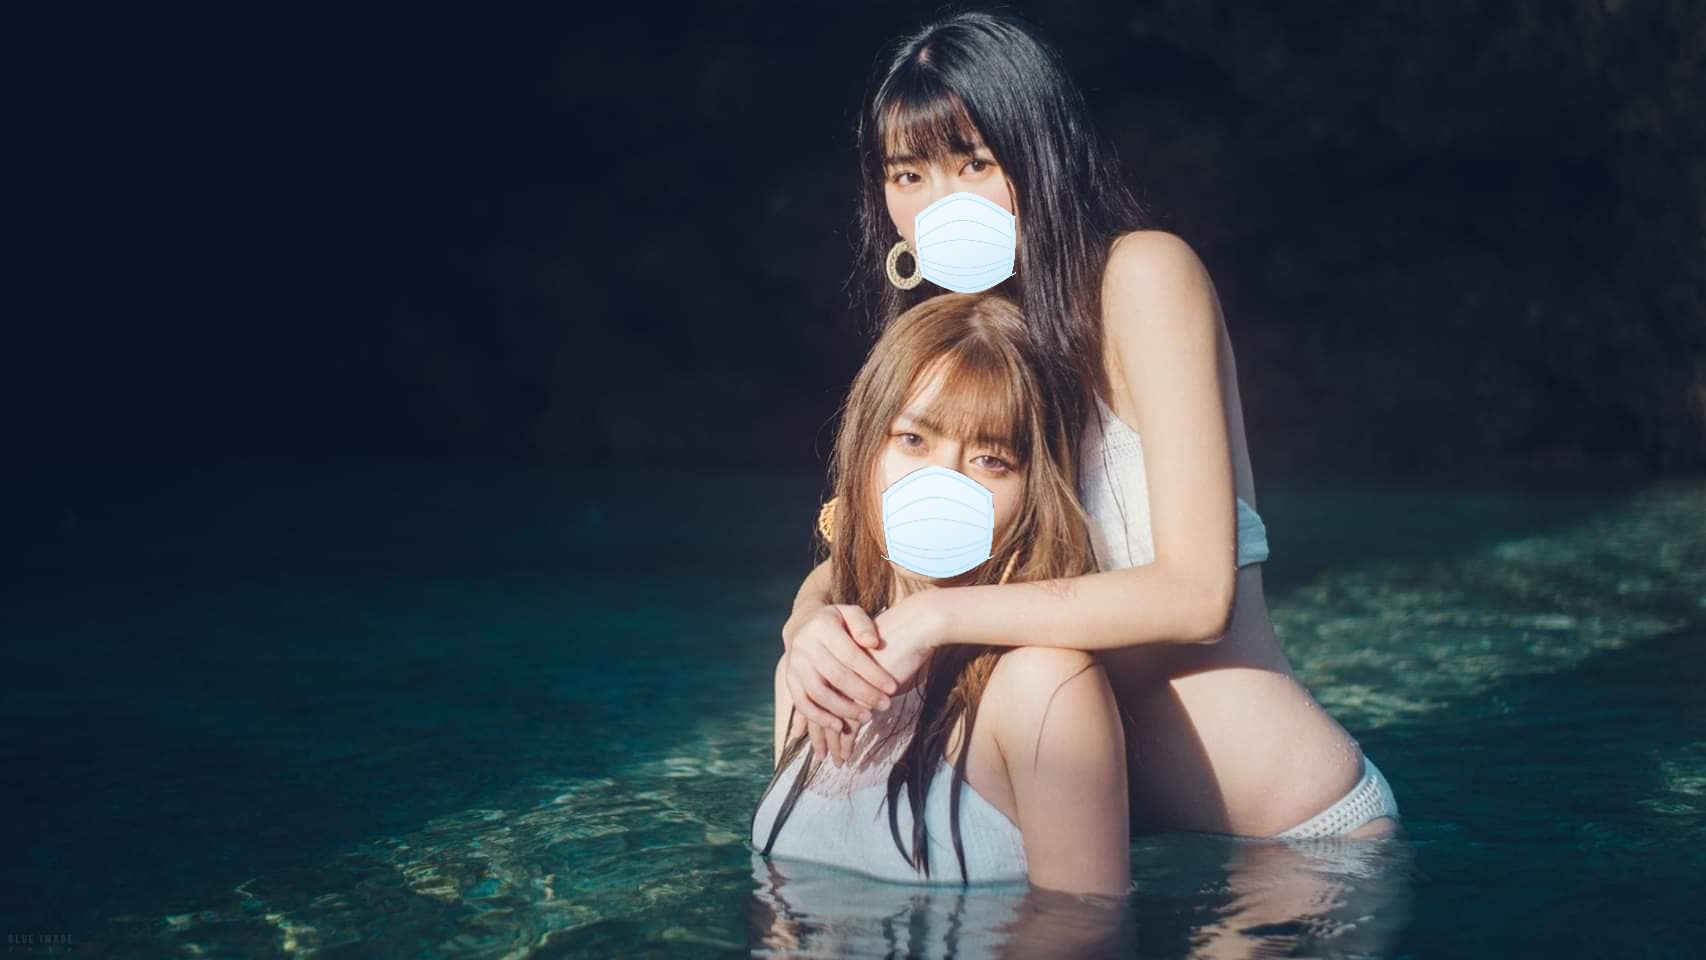
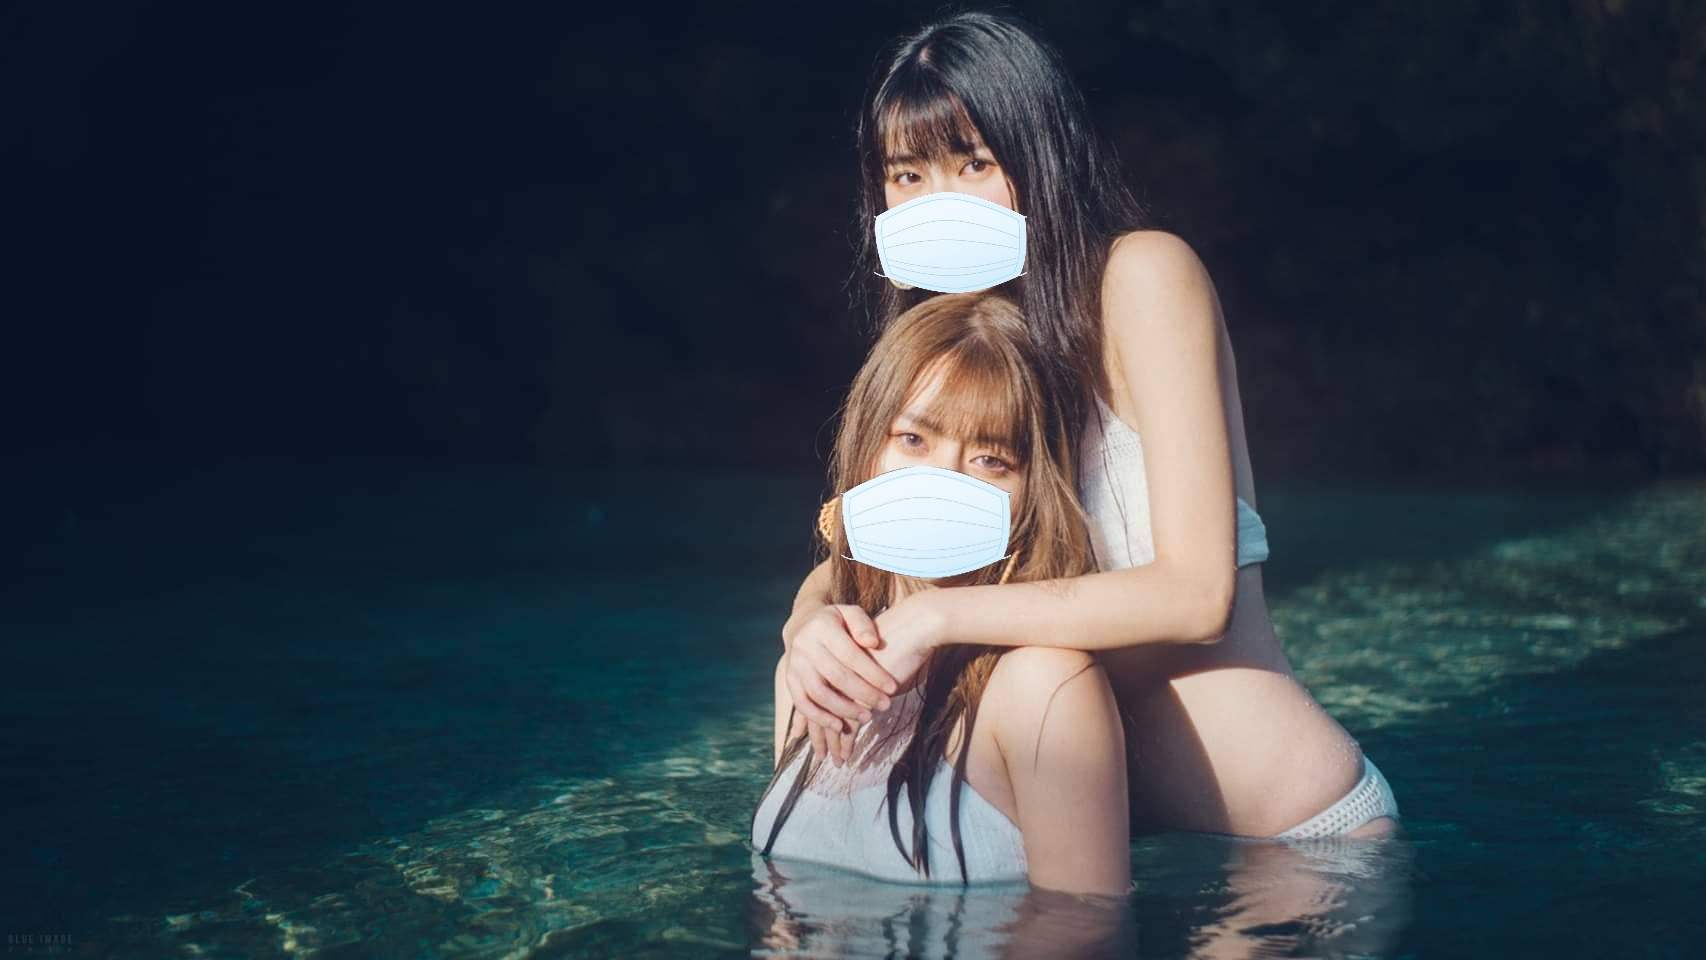
project end

diff --git a/opencv_exercise/project_1.py b/opencv_exercise/project_1.py
@@ -1,0 +1,251 @@
+# -*- coding: utf-8 -*-
+"""
+Created on Tue Sep  1 11:45:44 2020
+
+@author: a0970
+"""
+
+from flask import Flask
+app = Flask(__name__)
+
+from flask import abort
+from flask import Flask, request , Response
+#from mask_cov import  convert_image
+from linebot import  LineBotApi, WebhookHandler
+from linebot.exceptions import InvalidSignatureError
+from linebot.models import MessageEvent, TextMessage,TextSendMessage, ImageSendMessage, StickerSendMessage, LocationSendMessage, QuickReply, QuickReplyButton, MessageAction,ImageMessage
+
[1 lines of base64/hex data omitted]
+handler = WebhookHandler('34a1c3fdd183102a004ded05c0dc3811')
+
+
+
+
+#mask_cover_fun
+
+
+import cv2
+
+def convert_image(source):
+# 脸
+    face_cascade = cv2.CascadeClassifier('haarcascade_frontalface_default.xml')
+    face_cascade.load('sources/data/haarcascades/haarcascade_frontalface_default.xml')
+# 眼睛
+    eye_cascade = cv2.CascadeClassifier('haarcascade_eye.xml')
+    eye_cascade.load('sources/data/haarcascades/haarcascade_eye.xml')
+#嘴巴
+    mouth_cascade = cv2.CascadeClassifier('haarcascade_smile.xml')
+    mouth_cascade.load('sources/data/haarcascades/haarcascade_smile.xml')
+
+    
+#face_cascade = cv2.CascadeClassifier("../../opencv-2.4.9/data/haarcascades/haarcascade_frontalface_default.xml")  
+#eye_cascade = cv2.CascadeClassifier('../../opencv-2.4.9/data/haarcascades/haarcascade_eye.xml')  
+
+    img = cv2.imread(source + '.jpg')
+    img_in = cv2.imread('mask.png',-1)
+    gray = cv2.cvtColor(img, cv2.COLOR_BGR2GRAY)
+
+#脸
+    faces = face_cascade.detectMultiScale(gray, 1.2, 3)
+    for (x, y, w, h) in faces:
+        x_offset = []
+        y_offset = []
+
+#img = cv2.rectangle(img, (x,y),(x+w, y+h), (255, 0, 0), 2)
+        roi_gray = gray[y:y+h, x:x+w]
+        print('face:',x,y,w,h)
+#嘴巴
+        mouth = mouth_cascade.detectMultiScale(roi_gray, 1.5,5)
+        for (ex,ey,ew,eh) in mouth:
+             #cv2.rectangle(roi_color, (ex, ey), (ex+ew, ey+eh), (0, 0, 255), 2)
+            print('mouth:',ex,ey,ew,eh)
+            x_offset.append(ex)
+            y_offset.append(ey)
+            print('offset',x_offset,y_offset)
+            
+        if len(x_offset) > 0:
+            img_in = cv2.resize(img_in, (int(h*0.5), int(h*0.6)))
+            Index = y_offset.index(max(y_offset))
+            #for i in range(0,len(y_offset)) : 
+            y1, y2 = max(y_offset), max(y_offset) + img_in.shape[0]
+            x1, x2 = x_offset[Index], x_offset[Index] + img_in.shape[1]
+            alpha_s = img_in[:, :, 3] / 255.0
+            alpha_l = 1.0 - alpha_s
+            move_x = x - 10
+            move_y = y - int(h*0.5*0.5)
+        
+        for c in range(0, 3):
+            img[y1 + move_y:y2 + move_y, x1 + move_x:x2 + move_x, c] = (alpha_s * img_in[:, :, c] + alpha_l * img[y1 + move_y:y2 + move_y, x1 + move_x:x2 + move_x, c])
+
+#cv2.imshow('img', img)
+#cv2.waitKey(0)
+#cv2.destroyAllWindows()
+    cv2.imwrite(source + '_converted.jpg',img)
+    return source + '_converted.jpg'
+
+
+
+
+
+@app.route("/image", methods=['post', 'get'])
+def index():
+    path = request.args.get('path')
+    print(path)
+    path =  path
+    try :
+        resp = Response(open(path, 'rb'), mimetype="image/jpeg")
+    except InvalidSignatureError:
+        abort(400) 
+    return resp
+
+
+
+@app.route("/callback", methods=['POST'])
+def callback():
+    signature = request.headers['X-Line-Signature']
+    body = request.get_data(as_text=True)
+    try:
+        handler.handle(body, signature)
+    except InvalidSignatureError:
+        abort(400)
+    return 'OK'
+
+#加入一個message handler
+#XXXXXXXX
+
+
+@handler.add(MessageEvent ,message=ImageMessage)
+def handle_message_image(event):
+        ext = '.jpg'
+        message_content = line_bot_api.get_message_content(event.message.id)
+        with open(event.message.id + ext,'wb') as fd:
+            for chunk in message_content.iter_content():
+                fd.write(chunk)
+    
+        reimg=convert_image(event.message.id)
+        reimg = 'https://7ab75a946a8a.ngrok.io/image?path=' + reimg
+        print(reimg)
+        line_bot_api.reply_message(event.reply_token,ImageSendMessage( original_content_url =reimg , preview_image_url = reimg))
+    
+ 
+
+
+
+@handler.add(MessageEvent, message=TextMessage)
+def handle_message(event):
+    mtext = event.message.text
+    if mtext == 'Hi':
+        try:
+            message = TextSendMessage(text = "Hi, I am Mask-App.")
+            line_bot_api.reply_message(event.reply_token , message)
+        except:
+            line_bot_api.reply_message(event.reply_token , TextSendMessage(text='Please try again,thx.'))
+            
+            
+    elif mtext == '來看精選口罩！':
+            uri = 'https://7ab75a946a8a.ngrok.io/image?path='
+            message = [
+                #ImageSendMessage( 
+                #class
+                #original_content_url ='https://i.imgur.com/CSQJsZP.jpg',
+                #preview_image_url = 'https://i.imgur.com/CSQJsZP.jpg'),
+                
+                ImageSendMessage(
+                #original
+                original_content_url =uri + '12601132093474.jpg_converted.jpg',
+                preview_image_url = uri + '12601132093474.jpg_converted.jpg'),
+                
+                 ImageSendMessage(
+                #original
+                original_content_url = uri +'12601136402499.jpg_converted.jpg',
+                preview_image_url = uri + '12601136402499.jpg_converted.jpg'),
+                 
+                 ImageSendMessage(
+                #original
+                original_content_url =uri+'12601138680722.jpg_converted.jpg',
+                preview_image_url = uri+'12601138680722.jpg_converted.jpg'),
+                 
+                 ImageSendMessage(
+                #original
+                original_content_url =uri+'12601141694399.jpg_converted.jpg',
+                preview_image_url =uri+ '12601141694399.jpg_converted.jpg')
+                 
+            ]
+            line_bot_api.reply_message(event.reply_token , message)
+            
+    elif mtext == '貼圖':
+        try:
+            message = StickerSendMessage( 
+                package_id = '1', 
+                sticker_id = '410'
+            )
+            line_bot_api.reply_message(event.reply_token , message)
+        except:
+            line_bot_api.reply_message(event.reply_token , TextSendMessage(text='Please try again,thx.'))
+            
+    elif mtext == '多項傳送':
+        try:
+            message = [
+                StickerSendMessage( 
+                    package_id = '1', 
+                    sticker_id = '410'
+                ),
+                TextSendMessage(text = "Hi, I am Mask-App."),
+                
+                ImageSendMessage( 
+                    original_content_url ='https://i.imgur.com/CSQJsZP.jpg' , 
+                    preview_image_url = 'https://i.imgur.com/CSQJsZP.jpg'
+                )
+            ]
+            
+            line_bot_api.reply_message(event.reply_token , message)
+        except:
+            line_bot_api.reply_message(event.reply_token , TextSendMessage(text='Please try again,thx.'))
+            
+    
+    elif mtext == '位置':
+        try:
+            message = LocationSendMessage( 
+                title = '交通大學 台南分校',
+                address = '台南市歸仁區高發三路301號',
+                latitude=22.924879,
+                longitude=120.294950
+            )
+            line_bot_api.reply_message(event.reply_token , message)
+        except:
+            line_bot_api.reply_message(event.reply_token , TextSendMessage(text='Please try again,thx.'))
+            
+    elif mtext == '快速選單':
+        try:
+            message = TextSendMessage( 
+                text = 'please select',
+                quick_reply = QuickReply(
+                    items=[
+                        QuickReplyButton(action = MessageAction(label = "文字" , text = "文字")),
+                        QuickReplyButton(action = MessageAction(label = "圖片" , text = "圖片")),
+                        QuickReplyButton(action = MessageAction(label = "貼圖" , text = "貼圖")),
+                        QuickReplyButton(action = MessageAction(label = "多項傳送" , text = "多項傳送")),
+                        QuickReplyButton(action = MessageAction(label = "位置" , text = "位置")),
+                    ]
+                )
+            )
+            line_bot_api.reply_message(event.reply_token , message)
+        except:
+            line_bot_api.reply_message(event.reply_token , TextSendMessage(text='Please try again,thx.'))
+
+
+
+    
+    
+    
+
+    
+    
+
+   
+    
+    
+    
+    
+if __name__ == '__main__':
+    app.run()

diff --git a/opencv_exercise/function.py b/opencv_exercise/function.py
@@ -12,6 +12,7 @@ s_img = cv2.imread("smaller_image.png", -1)
 
 '''
 import cv2
+import os
 
 def convert_image(source):
 # 脸
@@ -28,7 +29,7 @@ def convert_image(source):
 #face_cascade = cv2.CascadeClassifier("../../opencv-2.4.9/data/haarcascades/haarcascade_frontalface_default.xml")  
 #eye_cascade = cv2.CascadeClassifier('../../opencv-2.4.9/data/haarcascades/haarcascade_eye.xml')  
 
-    img = cv2.imread(source + '.jpg')
+    img = cv2.imread(source)
     img_in = cv2.imread('mask.png',-1)
     gray = cv2.cvtColor(img, cv2.COLOR_BGR2GRAY)
 
@@ -40,25 +41,25 @@ def convert_image(source):
 
          #img = cv2.rectangle(img, (x,y),(x+w, y+h), (255, 0, 0), 2)
          roi_gray = gray[y:y+h, x:x+w]
-         print('face:',x,y,w,h)
+         #print('face:',x,y,w,h)
      #嘴巴
          mouth = mouth_cascade.detectMultiScale(roi_gray, 1.5,5)
          for (ex,ey,ew,eh) in mouth:
-             #cv2.rectangle(roi_color, (ex, ey), (ex+ew, ey+eh), (0, 0, 255), 2)
-             print('mouth:',ex,ey,ew,eh)
+            # cv2.rectangle((roi_gray), (ex, ey), (ex+ew, ey+eh), (0, 0, 255), 2)
+             #print('mouth:',ex,ey,ew,eh)
              x_offset.append(ex)
              y_offset.append(ey)
-             print('offset',x_offset,y_offset)
+             #print('offset',x_offset,y_offset)
          if len(x_offset) > 0:
-             img_in = cv2.resize(img_in, (int(h*0.5), int(h*0.5)))
+             img_in = cv2.resize(img_in, (int(h*0.7), int(h*0.7)))
              Index = y_offset.index(max(y_offset))
              #for i in range(0,len(y_offset)) :
              y1, y2 = max(y_offset), max(y_offset) + img_in.shape[0]
              x1, x2 = x_offset[Index], x_offset[Index] + img_in.shape[1]
              alpha_s = img_in[:, :, 3] / 255.0
              alpha_l = 1.0 - alpha_s
-             move_x = x - 10
-             move_y = y - int(h*0.5*0.5)
+             move_x = x - 15
+             move_y = y - int(h*0.5*0.5) 
          for c in range(0, 3):
              img[y1 + move_y:y2 + move_y, x1 + move_x:x2 + move_x, c] = (alpha_s * img_in[:, :, c] +
                               alpha_l * img[y1 + move_y:y2 + move_y, x1 + move_x:x2 + move_x, c])
@@ -68,4 +69,5 @@ def convert_image(source):
     cv2.imwrite(source + '_converted.jpg',img)
     return source + '_converted.jpg'
 
-print(convert_image('human2'))
+
+convert_image('12601181195402' + '.jpg');

diff --git a/README.md b/README.md
@@ -1,1 +1,7 @@
 # opencv_python_exercise
+
+- 檔案說明
+  - project_1 是主程式
+  - sources 裡有分類器
+  - function 裡有變換圖片的函數
+  - python_server_can_get 裡教學flask提供靜態圖片
